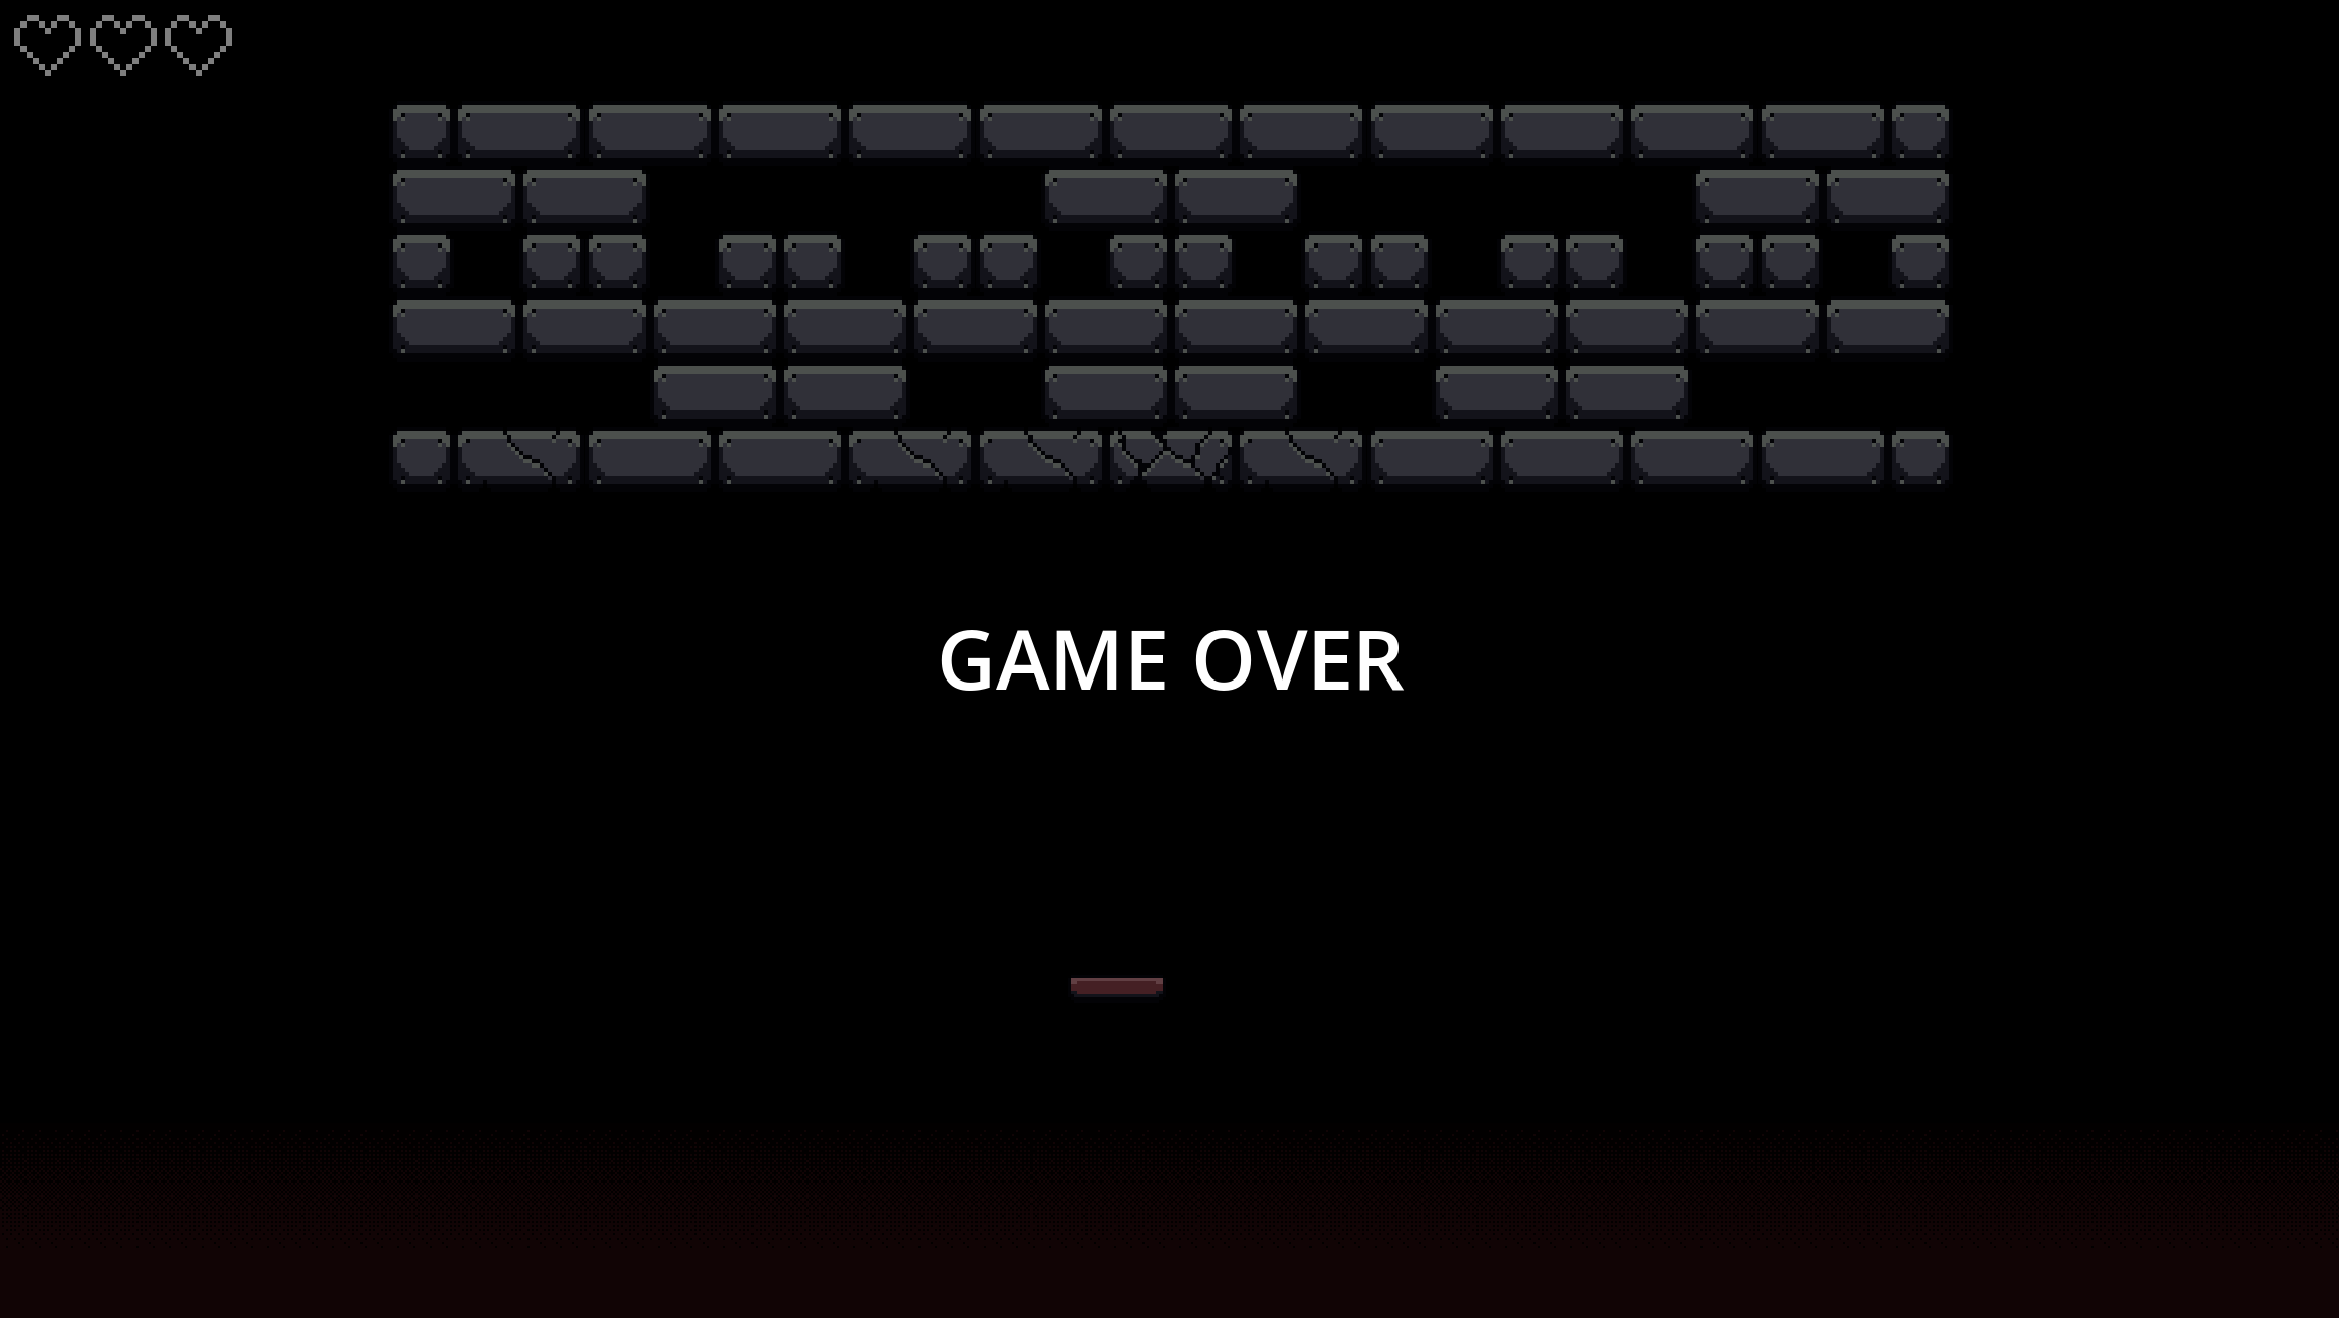
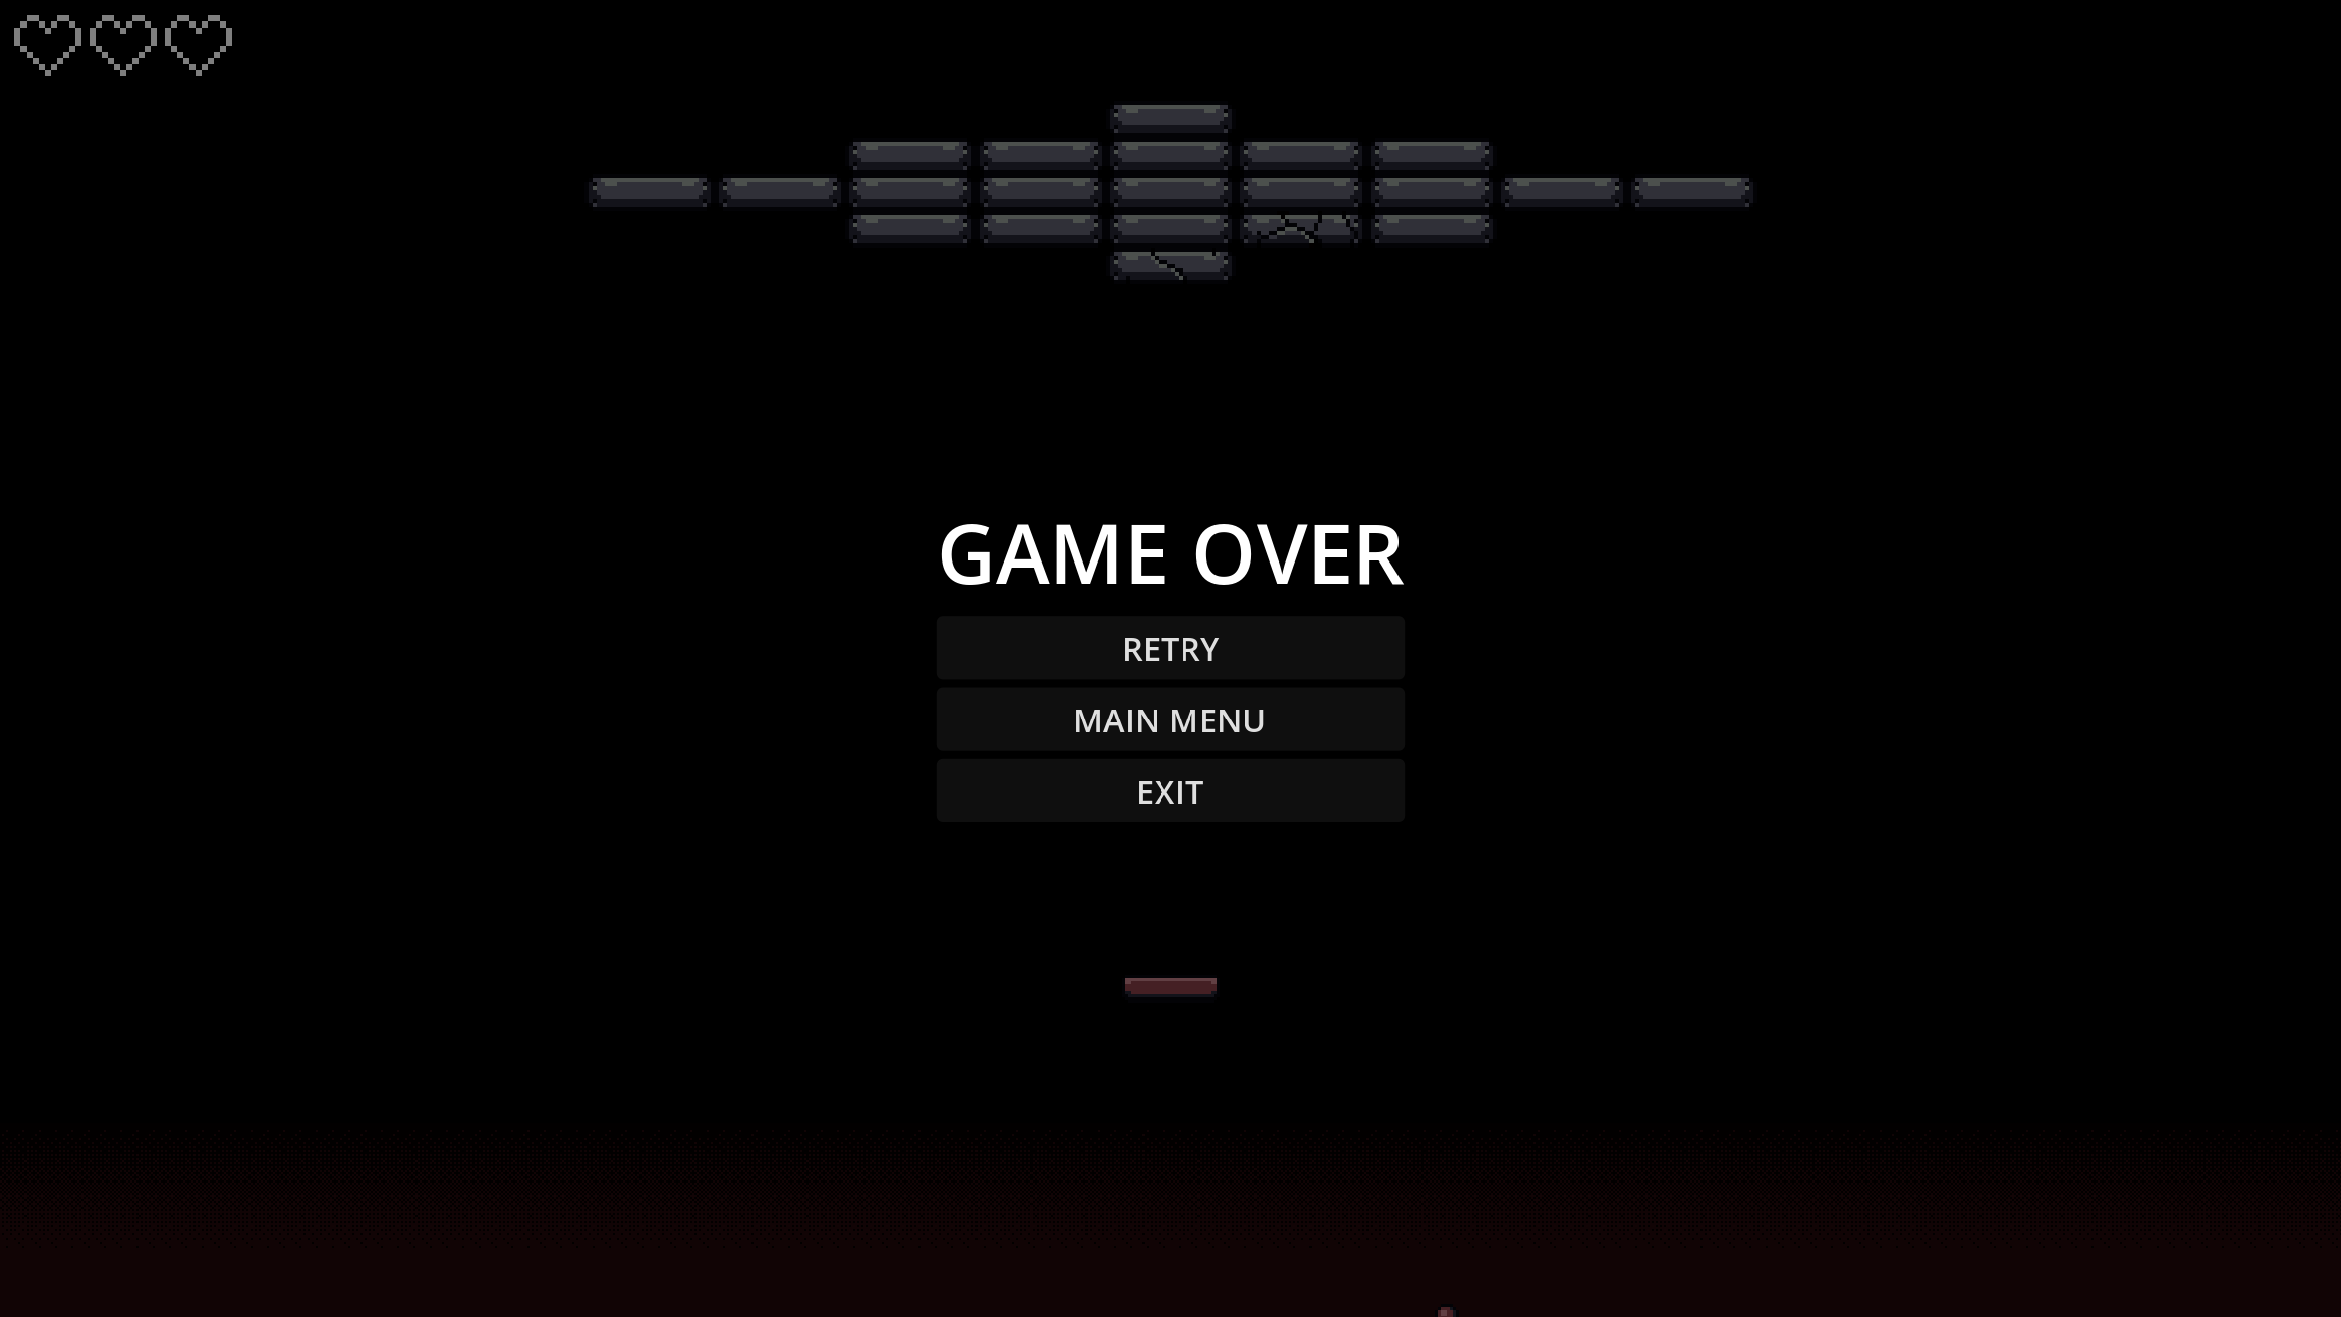
feat: sélection de niveau avec miniatures et ajout de 5 niveaux

diff --git a/README.md b/README.md
@@ -53,7 +53,7 @@ res://
 - [ ] Score + HUD
 - [X] Victoire / défaite
 - [ ] Power-ups
-- [ ] Menu de sélection de niveau/Niveaux supplémentaires
+- [X] Menu de sélection de niveau/Niveaux supplémentaires
 - [ ] Sons, particules, screen shake
 - [ ] Check les private (fonctions, variables)
 - [ ] Améliorer l'ui
